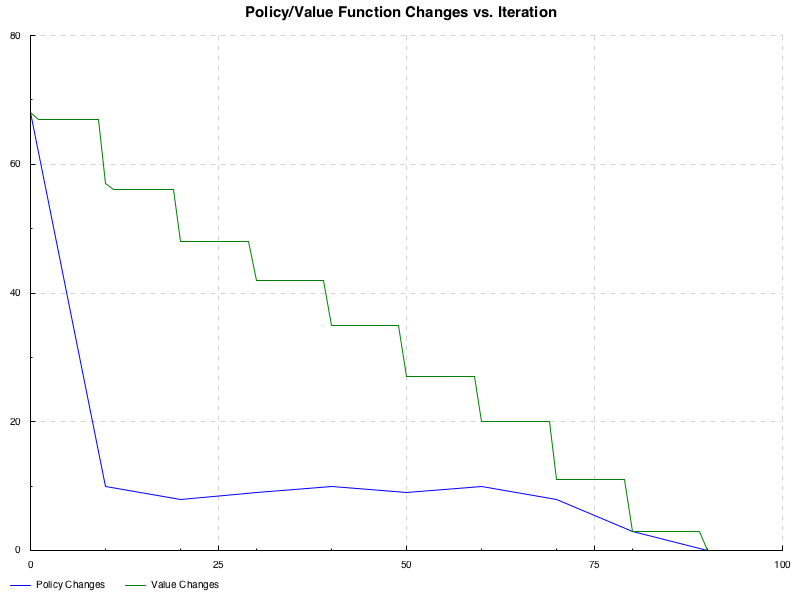
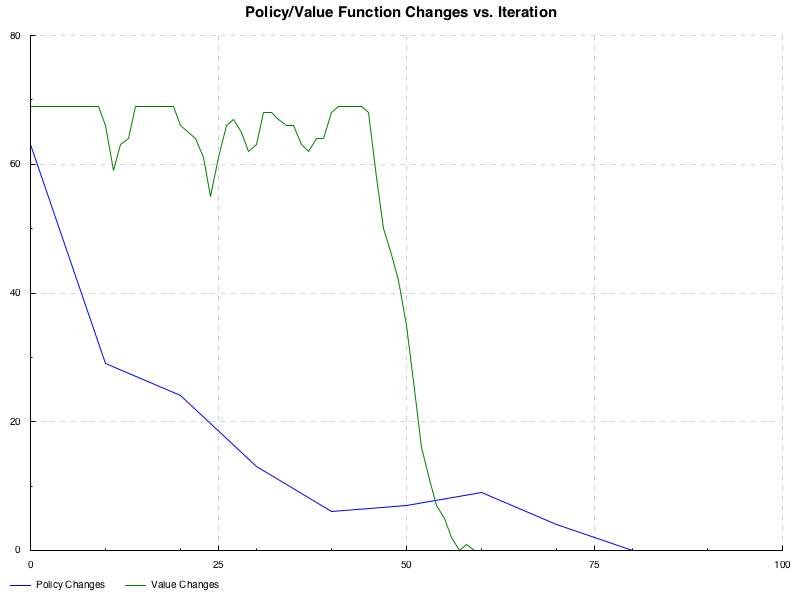
TD vs DP for WindyGrid, deterministic and stochastic.

diff --git a/windygrid_det.html b/windygrid_det.html
@@ -2,8 +2,8 @@
 <script type="text/javascript" async
   src="https://cdn.mathjax.org/mathjax/latest/MathJax.js?config=TeX-MML-AM_CHTML">
 </script>
-<h1 id="haskell-rl-windy-gridworld">haskell-rl : Windy Gridworld</h1>
-<p>This <a href="https://wiki.haskell.org/Literate_programming">literate Haskell</a> document provides a solution to Example 6.5 - <em>Windy Gridworld</em>.</p>
+<h1 id="haskell-rl-stochastically-windy-gridworld">haskell-rl : Stochastically Windy Gridworld</h1>
+<p>This <a href="https://wiki.haskell.org/Literate_programming">literate Haskell</a> document provides a solution to Ex. 6.10 - <em>Windy Gridworld w/ King’s Moves and Stochastic Wind</em>.</p>
 <p>Original author: <a href="mailto:David.Banas@target.com">David Banas</a><br />
 Original date: June 28, 2018</p>
 <p>Copyright © 2018 Target Corp.; all rights reserved World wide.</p>
@@ -172,9 +172,9 @@ Original date: June 28, 2018</p>
 <a class="sourceLine" id="cb4-95" data-line-number="95">    <span class="kw">then</span> [s, s, s]</a>
 <a class="sourceLine" id="cb4-96" data-line-number="96">    <span class="kw">else</span> [ (min (gNumRows <span class="fu">-</span> <span class="dv">1</span>) (max <span class="dv">0</span> (r <span class="fu">+</span> dr <span class="fu">+</span> wr)), min (gNumCols <span class="fu">-</span> <span class="dv">1</span>) (max <span class="dv">0</span> (c <span class="fu">+</span> dc)))</a>
 <a class="sourceLine" id="cb4-97" data-line-number="97">         <span class="fu">|</span> wr <span class="ot">&lt;-</span> <span class="kw">if</span> wind <span class="fu">/=</span> <span class="dv">0</span></a>
-<a class="sourceLine" id="cb4-98" data-line-number="98">                    <span class="kw">then</span> [wind <span class="fu">-</span> <span class="dv">1</span>, wind, wind <span class="fu">+</span> <span class="dv">1</span>]</a>
-<a class="sourceLine" id="cb4-99" data-line-number="99">                    <span class="co">-- then [wind, wind, wind]</span></a>
-<a class="sourceLine" id="cb4-100" data-line-number="100">                    <span class="kw">else</span> [<span class="dv">0</span>, <span class="dv">0</span>, <span class="dv">0</span>]</a>
+<a class="sourceLine" id="cb4-98" data-line-number="98">                    <span class="kw">then</span> [wind, wind, wind]</a>
+<a class="sourceLine" id="cb4-99" data-line-number="99">                    <span class="co">-- then [wind - 1, wind, wind + 1]</span></a>
+<a class="sourceLine" id="cb4-100" data-line-number="100">                    <span class="kw">else</span> [<span class="dv">0</span>, <span class="dv">0</span>, <span class="dv">0</span>]  <span class="co">-- Duplication is to keep probabilities correct.</span></a>
 <a class="sourceLine" id="cb4-101" data-line-number="101">         ]</a>
 <a class="sourceLine" id="cb4-102" data-line-number="102"> <span class="kw">where</span></a>
 <a class="sourceLine" id="cb4-103" data-line-number="103">  dr <span class="fu">=</span> <span class="kw">case</span> act <span class="kw">of</span></a>
@@ -456,19 +456,19 @@ Original date: June 28, 2018</p>
 c|c|c|c|c|c|c|c|c|c
 |}
 \hline
- \downarrow  &amp;  \downarrow  &amp;  \downarrow  &amp;  \searrow  &amp;  \searrow  &amp;  \searrow  &amp;  \rightarrow  &amp;  \rightarrow  &amp;  \searrow  &amp;  \downarrow  \\
+ \downarrow  &amp;  \downarrow  &amp;  \downarrow  &amp;  \leftarrow  &amp;  \rightarrow  &amp;  \rightarrow  &amp;  \rightarrow  &amp;  \rightarrow  &amp;  \rightarrow  &amp;  \downarrow  \\
 \hline
- \downarrow  &amp;  \downarrow  &amp;  \downarrow  &amp;  \swarrow  &amp;  \searrow  &amp;  \searrow  &amp;  \searrow  &amp;  \searrow  &amp;  \searrow  &amp;  \downarrow  \\
+ \searrow  &amp;  \downarrow  &amp;  \downarrow  &amp;  \swarrow  &amp;  \rightarrow  &amp;  \rightarrow  &amp;  \rightarrow  &amp;  \rightarrow  &amp;  \searrow  &amp;  \downarrow  \\
 \hline
- \searrow  &amp;  \downarrow  &amp;  \downarrow  &amp;  \searrow  &amp;  \searrow  &amp;  \searrow  &amp;  \searrow  &amp;  \searrow  &amp;  \swarrow  &amp;  \downarrow  \\
+ \rightarrow  &amp;  \searrow  &amp;  \downarrow  &amp;  \swarrow  &amp;  \swarrow  &amp;  \rightarrow  &amp;  \rightarrow  &amp;  \searrow  &amp;  \searrow  &amp;  \swarrow  \\
 \hline
-S &amp;  \searrow  &amp;  \downarrow  &amp;  \searrow  &amp;  \searrow  &amp;  \searrow  &amp;  \searrow  &amp; G &amp;  \swarrow  &amp;  \swarrow  \\
+S &amp;  \rightarrow  &amp;  \searrow  &amp;  \swarrow  &amp;  \swarrow  &amp;  \searrow  &amp;  \searrow  &amp; G &amp;  \swarrow  &amp;  \leftarrow  \\
 \hline
- \rightarrow  &amp;  \searrow  &amp;  \searrow  &amp;  \searrow  &amp;  \searrow  &amp;  \searrow  &amp;  \searrow  &amp;  \downarrow  &amp;  \swarrow  &amp;  \leftarrow  \\
+ \rightarrow  &amp;  \rightarrow  &amp;  \rightarrow  &amp;  \searrow  &amp;  \searrow  &amp;  \searrow  &amp;  \searrow  &amp;  \downarrow  &amp;  \leftarrow  &amp;  \leftarrow  \\
 \hline
- \rightarrow  &amp;  \rightarrow  &amp;  \searrow  &amp;  \searrow  &amp;  \searrow  &amp;  \searrow  &amp;  \searrow  &amp;  \downarrow  &amp;  \leftarrow  &amp;  \leftarrow  \\
+ \rightarrow  &amp;  \rightarrow  &amp;  \rightarrow  &amp;  \rightarrow  &amp;  \rightarrow  &amp;  \rightarrow  &amp;  \rightarrow  &amp;  \cdot  &amp;  \nwarrow  &amp;  \leftarrow  \\
 \hline
- \rightarrow  &amp;  \rightarrow  &amp;  \rightarrow  &amp;  \searrow  &amp;  \searrow  &amp;  \searrow  &amp;  \rightarrow  &amp;  \cdot  &amp;  \nwarrow  &amp;  \leftarrow  \\
+ \rightarrow  &amp;  \rightarrow  &amp;  \rightarrow  &amp;  \rightarrow  &amp;  \rightarrow  &amp;  \rightarrow  &amp;  \nearrow  &amp;  \uparrow  &amp;  \uparrow  &amp;  \nwarrow  \\
 \hline
 \end{array}\]</span>
 <h4 id="final-value-function">Final value function</h4>
@@ -476,19 +476,19 @@ S &amp;  \searrow  &amp;  \downarrow  &amp;  \searrow  &amp;  \searrow  &amp;  \
 c|c|c|c|c|c|c|c|c|c
 |}
 \hline
--12.6 &amp; -12.6 &amp; -12.6 &amp; -13.1 &amp; -12.3 &amp; -11.3 &amp; -10.3 &amp; -9.3 &amp; -8.3 &amp; -7.6 \\
+-7.0 &amp; -7.0 &amp; -7.0 &amp; -8.0 &amp; -8.0 &amp; -7.0 &amp; -6.0 &amp; -5.0 &amp; -4.0 &amp; -3.0 \\
 \hline
--11.6 &amp; -11.6 &amp; -11.6 &amp; -12.6 &amp; -11.8 &amp; -11.2 &amp; -10.2 &amp; -9.1 &amp; -7.6 &amp; -6.6 \\
+-6.0 &amp; -6.0 &amp; -6.0 &amp; -7.0 &amp; -8.0 &amp; -7.0 &amp; -6.0 &amp; -5.0 &amp; -3.0 &amp; -2.0 \\
 \hline
--10.6 &amp; -10.6 &amp; -10.6 &amp; -11.6 &amp; -10.8 &amp; -9.9 &amp; -10.0 &amp; -8.5 &amp; -6.5 &amp; -5.6 \\
+-6.0 &amp; -5.0 &amp; -5.0 &amp; -6.0 &amp; -7.0 &amp; -7.0 &amp; -6.0 &amp; -4.0 &amp; -2.0 &amp; -1.0 \\
 \hline
-S &amp; -9.6 &amp; -9.6 &amp; -10.1 &amp; -9.1 &amp; -8.3 &amp; -6.5 &amp; G &amp; -5.2 &amp; -4.6 \\
+S &amp; -5.0 &amp; -4.0 &amp; -5.0 &amp; -6.0 &amp; -6.0 &amp; -5.0 &amp; G &amp;  0.0 &amp; -1.0 \\
 \hline
--10.0 &amp; -9.0 &amp; -8.6 &amp; -8.7 &amp; -7.5 &amp; -6.1 &amp; -5.2 &amp; -5.2 &amp; -3.6 &amp; -4.6 \\
+-6.0 &amp; -5.0 &amp; -4.0 &amp; -3.0 &amp; -2.0 &amp; -1.0 &amp;  0.0 &amp;  0.0 &amp;  0.0 &amp; -1.0 \\
 \hline
--10.0 &amp; -9.0 &amp; -8.0 &amp; -7.6 &amp; -6.3 &amp; -5.2 &amp; -3.6 &amp; -3.6 &amp; -3.6 &amp; -4.6 \\
+-6.0 &amp; -5.0 &amp; -4.0 &amp; -3.0 &amp; -2.0 &amp; -1.0 &amp;  0.0 &amp;  0.0 &amp;  0.0 &amp; -1.0 \\
 \hline
--10.0 &amp; -9.0 &amp; -8.0 &amp; -7.0 &amp; -5.8 &amp; -4.6 &amp; -3.6 &amp; -3.6 &amp; -3.6 &amp; -4.6 \\
+-6.0 &amp; -5.0 &amp; -4.0 &amp; -3.0 &amp; -2.0 &amp; -1.0 &amp;  0.0 &amp;  0.0 &amp; -1.0 &amp; -1.0 \\
 \hline
 \end{array}\]</span>
 <h4 id="trajectory-of-final-policy">Trajectory of final policy</h4>
@@ -502,13 +502,13 @@ c|c|c|c|c|c|c|c|c|c
 \hline
  &amp;  &amp;  &amp;  &amp;  &amp;  &amp;  &amp;  &amp;  &amp;  \\
 \hline
-S &amp;  &amp;  &amp;  &amp;  &amp;  &amp;  &amp; G &amp;  &amp;  \\
-\hline
- &amp;  \cdot  &amp;  &amp;  &amp;  &amp;  &amp;  &amp;  \cdot  &amp;  &amp;  \\
-\hline
- &amp;  &amp;  \cdot  &amp;  &amp;  &amp;  &amp;  &amp;  &amp;  &amp;  \\
+S &amp;  \cdot  &amp;  \cdot  &amp;  &amp;  &amp;  &amp;  &amp; G &amp;  &amp;  \\
 \hline
  &amp;  &amp;  &amp;  \cdot  &amp;  \cdot  &amp;  \cdot  &amp;  \cdot  &amp;  &amp;  &amp;  \\
+\hline
+ &amp;  &amp;  &amp;  &amp;  &amp;  &amp;  &amp;  &amp;  &amp;  \\
+\hline
+ &amp;  &amp;  &amp;  &amp;  &amp;  &amp;  &amp;  &amp;  &amp;  \\
 \hline
 \end{array}\]</span>
 <h4 id="policyvalue-function-changes-vs.-iteration">Policy/Value Function Changes vs. Iteration</h4>

diff --git a/windygrid.html b/windygrid.html
@@ -172,8 +172,8 @@ Original date: June 28, 2018</p>
 <a class="sourceLine" id="cb4-95" data-line-number="95">    <span class="kw">then</span> [s, s, s]</a>
 <a class="sourceLine" id="cb4-96" data-line-number="96">    <span class="kw">else</span> [ (min (gNumRows <span class="fu">-</span> <span class="dv">1</span>) (max <span class="dv">0</span> (r <span class="fu">+</span> dr <span class="fu">+</span> wr)), min (gNumCols <span class="fu">-</span> <span class="dv">1</span>) (max <span class="dv">0</span> (c <span class="fu">+</span> dc)))</a>
 <a class="sourceLine" id="cb4-97" data-line-number="97">         <span class="fu">|</span> wr <span class="ot">&lt;-</span> <span class="kw">if</span> wind <span class="fu">/=</span> <span class="dv">0</span></a>
-<a class="sourceLine" id="cb4-98" data-line-number="98">                    <span class="kw">then</span> [wind, wind, wind]</a>
-<a class="sourceLine" id="cb4-99" data-line-number="99">                    <span class="co">-- then [wind - 1, wind, wind + 1]</span></a>
+<a class="sourceLine" id="cb4-98" data-line-number="98">                    <span class="co">-- then [wind, wind, wind]</span></a>
+<a class="sourceLine" id="cb4-99" data-line-number="99">                    <span class="kw">then</span> [wind <span class="fu">-</span> <span class="dv">1</span>, wind, wind <span class="fu">+</span> <span class="dv">1</span>]</a>
 <a class="sourceLine" id="cb4-100" data-line-number="100">                    <span class="kw">else</span> [<span class="dv">0</span>, <span class="dv">0</span>, <span class="dv">0</span>]  <span class="co">-- Duplication is to keep probabilities correct.</span></a>
 <a class="sourceLine" id="cb4-101" data-line-number="101">         ]</a>
 <a class="sourceLine" id="cb4-102" data-line-number="102"> <span class="kw">where</span></a>
@@ -456,19 +456,19 @@ Original date: June 28, 2018</p>
 c|c|c|c|c|c|c|c|c|c
 |}
 \hline
- \downarrow  &amp;  \downarrow  &amp;  \downarrow  &amp;  \leftarrow  &amp;  \rightarrow  &amp;  \rightarrow  &amp;  \rightarrow  &amp;  \rightarrow  &amp;  \rightarrow  &amp;  \downarrow  \\
+ \downarrow  &amp;  \downarrow  &amp;  \downarrow  &amp;  \searrow  &amp;  \searrow  &amp;  \searrow  &amp;  \rightarrow  &amp;  \rightarrow  &amp;  \searrow  &amp;  \downarrow  \\
 \hline
- \searrow  &amp;  \downarrow  &amp;  \downarrow  &amp;  \swarrow  &amp;  \rightarrow  &amp;  \rightarrow  &amp;  \rightarrow  &amp;  \rightarrow  &amp;  \searrow  &amp;  \downarrow  \\
+ \downarrow  &amp;  \downarrow  &amp;  \downarrow  &amp;  \swarrow  &amp;  \searrow  &amp;  \searrow  &amp;  \searrow  &amp;  \searrow  &amp;  \searrow  &amp;  \downarrow  \\
 \hline
- \rightarrow  &amp;  \searrow  &amp;  \downarrow  &amp;  \swarrow  &amp;  \swarrow  &amp;  \rightarrow  &amp;  \rightarrow  &amp;  \searrow  &amp;  \searrow  &amp;  \swarrow  \\
+ \searrow  &amp;  \downarrow  &amp;  \downarrow  &amp;  \searrow  &amp;  \searrow  &amp;  \searrow  &amp;  \searrow  &amp;  \searrow  &amp;  \swarrow  &amp;  \downarrow  \\
 \hline
-S &amp;  \rightarrow  &amp;  \searrow  &amp;  \swarrow  &amp;  \swarrow  &amp;  \searrow  &amp;  \searrow  &amp; G &amp;  \swarrow  &amp;  \leftarrow  \\
+S &amp;  \searrow  &amp;  \downarrow  &amp;  \searrow  &amp;  \searrow  &amp;  \searrow  &amp;  \searrow  &amp; G &amp;  \swarrow  &amp;  \swarrow  \\
 \hline
- \rightarrow  &amp;  \rightarrow  &amp;  \rightarrow  &amp;  \searrow  &amp;  \searrow  &amp;  \searrow  &amp;  \searrow  &amp;  \downarrow  &amp;  \leftarrow  &amp;  \leftarrow  \\
+ \rightarrow  &amp;  \searrow  &amp;  \searrow  &amp;  \searrow  &amp;  \searrow  &amp;  \searrow  &amp;  \searrow  &amp;  \downarrow  &amp;  \swarrow  &amp;  \leftarrow  \\
 \hline
- \rightarrow  &amp;  \rightarrow  &amp;  \rightarrow  &amp;  \rightarrow  &amp;  \rightarrow  &amp;  \rightarrow  &amp;  \rightarrow  &amp;  \cdot  &amp;  \nwarrow  &amp;  \leftarrow  \\
+ \rightarrow  &amp;  \rightarrow  &amp;  \searrow  &amp;  \searrow  &amp;  \searrow  &amp;  \searrow  &amp;  \searrow  &amp;  \downarrow  &amp;  \leftarrow  &amp;  \leftarrow  \\
 \hline
- \rightarrow  &amp;  \rightarrow  &amp;  \rightarrow  &amp;  \rightarrow  &amp;  \rightarrow  &amp;  \rightarrow  &amp;  \nearrow  &amp;  \uparrow  &amp;  \uparrow  &amp;  \nwarrow  \\
+ \rightarrow  &amp;  \rightarrow  &amp;  \rightarrow  &amp;  \searrow  &amp;  \searrow  &amp;  \searrow  &amp;  \rightarrow  &amp;  \cdot  &amp;  \nwarrow  &amp;  \leftarrow  \\
 \hline
 \end{array}\]</span>
 <h4 id="final-value-function">Final value function</h4>
@@ -476,19 +476,19 @@ S &amp;  \rightarrow  &amp;  \searrow  &amp;  \swarrow  &amp;  \swarrow  &amp;  
 c|c|c|c|c|c|c|c|c|c
 |}
 \hline
--7.0 &amp; -7.0 &amp; -7.0 &amp; -8.0 &amp; -8.0 &amp; -7.0 &amp; -6.0 &amp; -5.0 &amp; -4.0 &amp; -3.0 \\
+-12.6 &amp; -12.6 &amp; -12.6 &amp; -13.1 &amp; -12.3 &amp; -11.3 &amp; -10.3 &amp; -9.3 &amp; -8.3 &amp; -7.6 \\
 \hline
--6.0 &amp; -6.0 &amp; -6.0 &amp; -7.0 &amp; -8.0 &amp; -7.0 &amp; -6.0 &amp; -5.0 &amp; -3.0 &amp; -2.0 \\
+-11.6 &amp; -11.6 &amp; -11.6 &amp; -12.6 &amp; -11.8 &amp; -11.2 &amp; -10.2 &amp; -9.1 &amp; -7.6 &amp; -6.6 \\
 \hline
--6.0 &amp; -5.0 &amp; -5.0 &amp; -6.0 &amp; -7.0 &amp; -7.0 &amp; -6.0 &amp; -4.0 &amp; -2.0 &amp; -1.0 \\
+-10.6 &amp; -10.6 &amp; -10.6 &amp; -11.6 &amp; -10.8 &amp; -9.9 &amp; -10.0 &amp; -8.5 &amp; -6.5 &amp; -5.6 \\
 \hline
-S &amp; -5.0 &amp; -4.0 &amp; -5.0 &amp; -6.0 &amp; -6.0 &amp; -5.0 &amp; G &amp;  0.0 &amp; -1.0 \\
+S &amp; -9.6 &amp; -9.6 &amp; -10.1 &amp; -9.1 &amp; -8.3 &amp; -6.5 &amp; G &amp; -5.2 &amp; -4.6 \\
 \hline
--6.0 &amp; -5.0 &amp; -4.0 &amp; -3.0 &amp; -2.0 &amp; -1.0 &amp;  0.0 &amp;  0.0 &amp;  0.0 &amp; -1.0 \\
+-10.0 &amp; -9.0 &amp; -8.6 &amp; -8.7 &amp; -7.5 &amp; -6.1 &amp; -5.2 &amp; -5.2 &amp; -3.6 &amp; -4.6 \\
 \hline
--6.0 &amp; -5.0 &amp; -4.0 &amp; -3.0 &amp; -2.0 &amp; -1.0 &amp;  0.0 &amp;  0.0 &amp;  0.0 &amp; -1.0 \\
+-10.0 &amp; -9.0 &amp; -8.0 &amp; -7.6 &amp; -6.3 &amp; -5.2 &amp; -3.6 &amp; -3.6 &amp; -3.6 &amp; -4.6 \\
 \hline
--6.0 &amp; -5.0 &amp; -4.0 &amp; -3.0 &amp; -2.0 &amp; -1.0 &amp;  0.0 &amp;  0.0 &amp; -1.0 &amp; -1.0 \\
+-10.0 &amp; -9.0 &amp; -8.0 &amp; -7.0 &amp; -5.8 &amp; -4.6 &amp; -3.6 &amp; -3.6 &amp; -3.6 &amp; -4.6 \\
 \hline
 \end{array}\]</span>
 <h4 id="trajectory-of-final-policy">Trajectory of final policy</h4>
@@ -502,13 +502,13 @@ c|c|c|c|c|c|c|c|c|c
 \hline
  &amp;  &amp;  &amp;  &amp;  &amp;  &amp;  &amp;  &amp;  &amp;  \\
 \hline
-S &amp;  \cdot  &amp;  \cdot  &amp;  &amp;  &amp;  &amp;  &amp; G &amp;  &amp;  \\
+S &amp;  &amp;  &amp;  &amp;  &amp;  &amp;  &amp; G &amp;  &amp;  \\
+\hline
+ &amp;  \cdot  &amp;  &amp;  &amp;  &amp;  &amp;  &amp;  \cdot  &amp;  &amp;  \\
+\hline
+ &amp;  &amp;  \cdot  &amp;  &amp;  &amp;  &amp;  &amp;  &amp;  &amp;  \\
 \hline
  &amp;  &amp;  &amp;  \cdot  &amp;  \cdot  &amp;  \cdot  &amp;  \cdot  &amp;  &amp;  &amp;  \\
-\hline
- &amp;  &amp;  &amp;  &amp;  &amp;  &amp;  &amp;  &amp;  &amp;  \\
-\hline
- &amp;  &amp;  &amp;  &amp;  &amp;  &amp;  &amp;  &amp;  &amp;  \\
 \hline
 \end{array}\]</span>
 <h4 id="policyvalue-function-changes-vs.-iteration">Policy/Value Function Changes vs. Iteration</h4>
